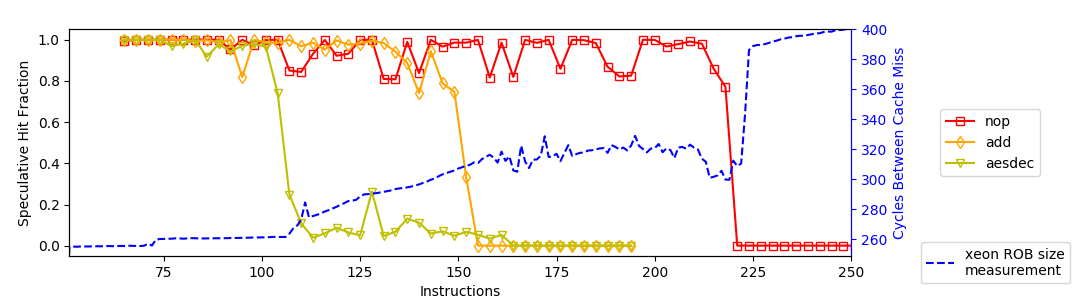
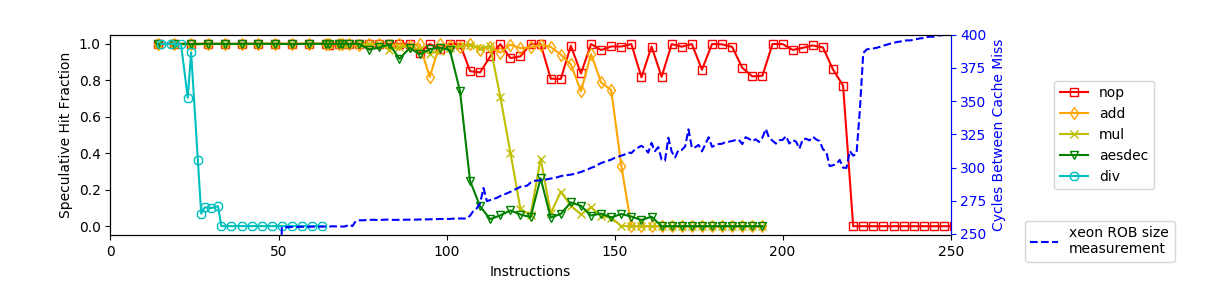
updated figure 3 and associated caption

diff --git a/paper/figures.tex b/paper/figures.tex
@@ -82,18 +82,25 @@
 
 \newcommand{\FigSpecMeasureNP}{
 \begin{figure*}[t]
-     \centering
-        \includegraphics[width=0.9\textwidth]{figures/Speculative_measurements_no-parity.png}
-        \caption{\textbf{Speculative limits}\,---\,%
-    To find the number of instructions we can execute speculatively, we placed a speculative load
-    after an increasing number of instructions, and measured the fraction of times the load
-    was subsequently in cache. However, more complex instructions
-    have stricter constraints, generally corresponding to the number of $\mu$-ops that an instruction
-    comprises. We find that we can execute up to 220 instructions 
-    speculatively, which corresponds with the size of the CPU's reorder buffer (ROB). We measure 
-    the ROB size by timing two cache accesses with a variable number of 
-    instructions between them. The step in cycles around 220 instructions indicates that the 
-    second cache access was pushed out of the ROB defining an upper limit on size.  }
+    \centering
+    \includegraphics[width=0.9\textwidth]{figures/Speculative_measurements_no-parity.png}
+    \caption{\textbf{Speculative limits}\,---\,%
+    To find the number of instructions we can execute speculatively we placed a signal gadget
+    after an increasing number of instructions and measured the fraction of times the 
+    loaded value was subsequently in cache. However more complex instructions have stricter 
+    constraints applied at two limits that we have identified, cache latency cycle limitation, and 
+    the CPU's reorder buffer~(ROB) size as measured by instruction $\mu$-ops. We find that the
+    hit fraction for instructions with a ratio of cycle latency to $\mu$~ops greater than 1 undergo a
+    steep drop to \~0.1 hit fraction before falling definitively to 0. The drop in hit fraction 
+    indicates that the duration of the test in cycles is beyond the fist step in cache latency as shown in 
+    Figure~\ref{fig:cache-miss} (approx. 200 cycles). If the instruction sequence does not reach the 
+    cycle count limit we see only a sharp drop in hit fraction to 0 indicating the limiting factor 
+    is ROB size.  For example, the \texttt{idiv (r32)} instruction we identify 18 as the maximum number of 
+    instruction limited by ROB (with ~15 instructions for signal gadget), with a soft limit of 
+    12 instructions enforced by the cache latency cycle limitation. 
+    We measure the ROB size by timing two cache accesses with a variable number of 
+    instructions between them and note that this aligns with the measured maximum \texttt{nop} instrustions.
+    }
     \label{fig:spec-capacity-np}
 \end{figure*}
 }
